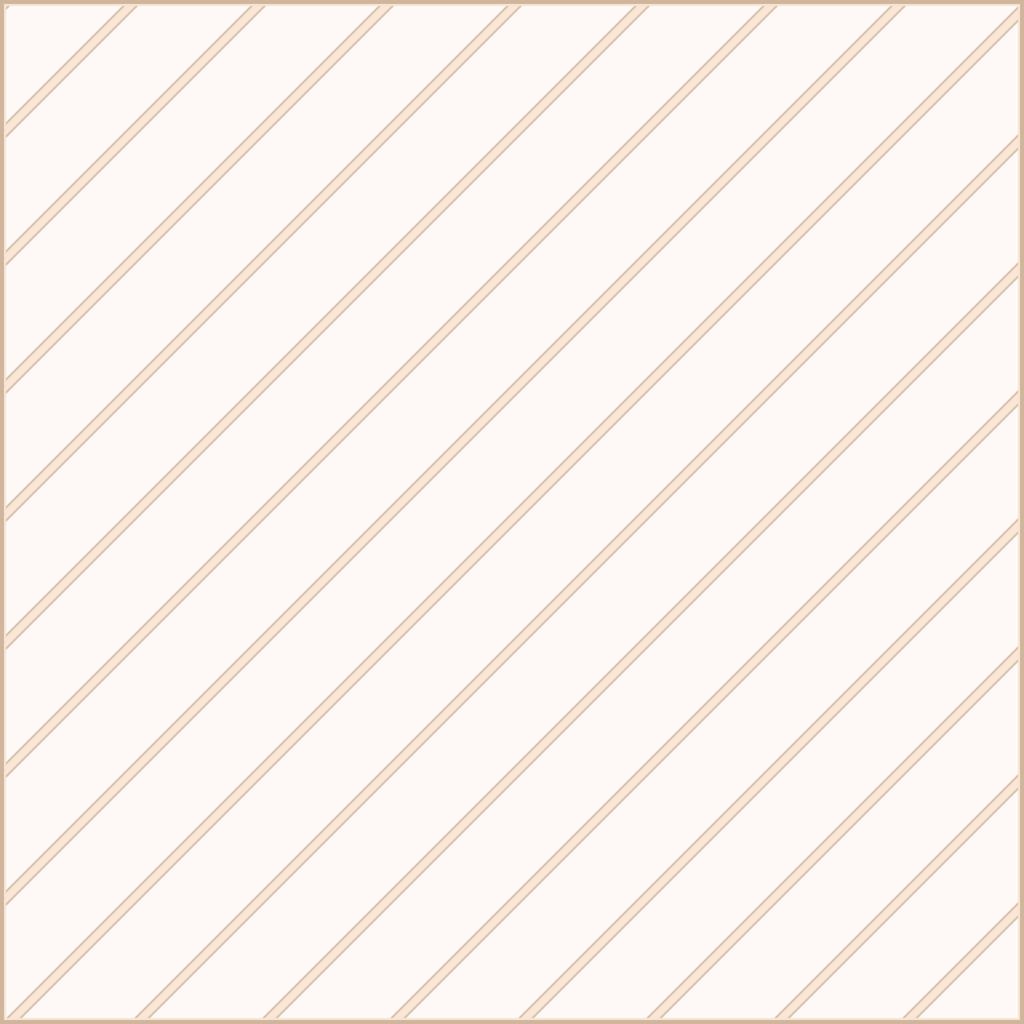
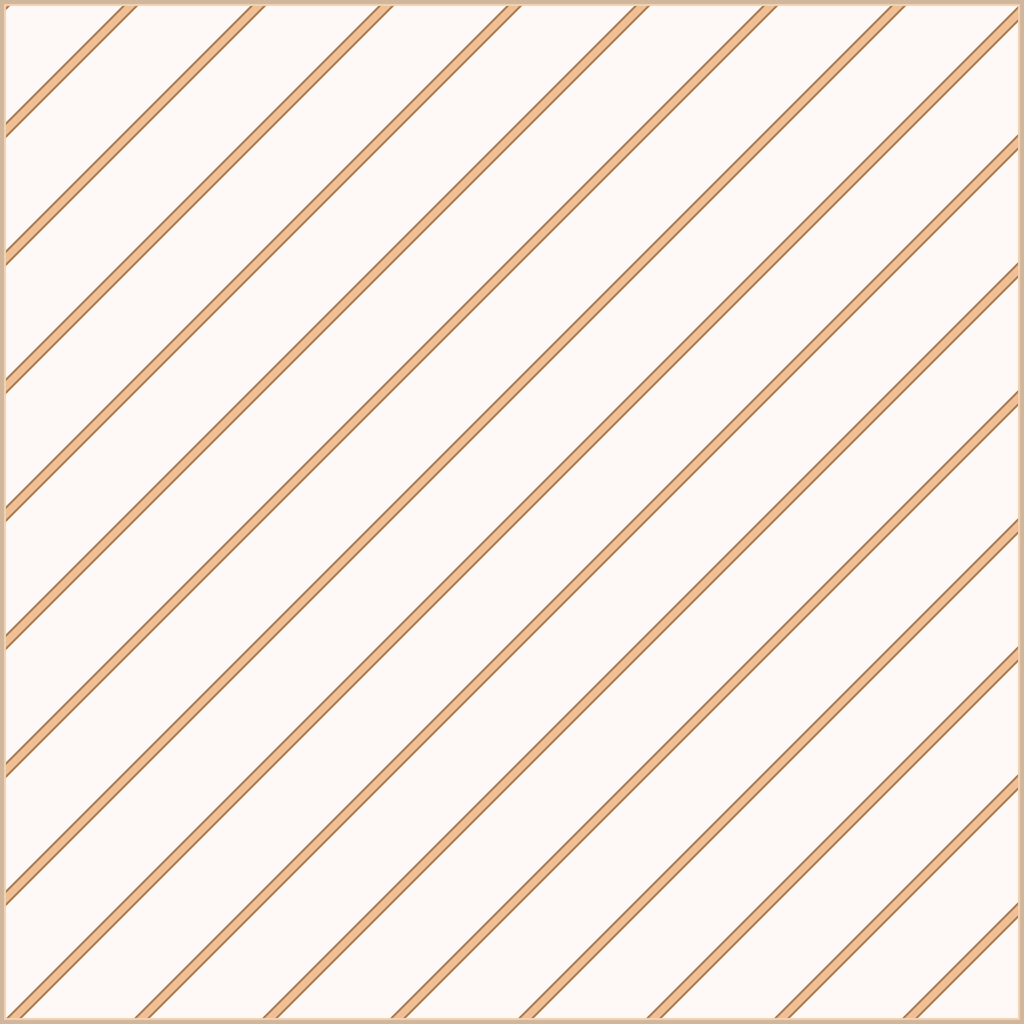
Trail overlay reads over terrain; stripe weight becomes per-state
Playtest report with a screenshot: the Trail overlay was hard to see. Its
stripes sat at alpha 49-86 of 255 - roughly 19% for the core - and orange
at 19% over dirt is invisible; halving the ribbon width for anti-aliasing
had made it fainter still.

alpha_scale was the wrong knob (it also dims the cell border and wash),
so each state now names its own alphas instead. Trail's stripes go to
190/125, about half strength: clearly visible on any terrain, still
see-through. Wilderness stays opaque, rampart keeps the base weight.

That gives the ladder a gradient in WEIGHT as well as color - the more a
rung forbids, the louder it argues, from opaque wilderness down to the
Deed's total absence of overlay. Both the world artwork and the map-view
chart variants inherit it, so the two views stay in one language.

diff --git a/tools/gen_overlays.py b/tools/gen_overlays.py
@@ -7,9 +7,12 @@ wilderness escalates the same artwork to fully opaque red stripes,
 unmistakable at any zoom):
 
     wilderness  red, stripes 100% opaque   (hard no)
-    trail       orange, calmer             (transit corridor)
+    trail       orange at ~half strength   (transit corridor)
     rampart     red, the original pattern  (one rung from Deed)
     deed        —                          (no blocker, fully clear)
+
+Stripe weight tracks how much the rung forbids, so the ladder reads as a
+gradient from loud to silent even before the colors register.
 
 Each sprite is 1024x1024 px; the data stage scales it to the configured cell
 size. The stripe period divides 1024, so patterns continue seamlessly across
@@ -71,21 +74,36 @@ def darken(c, f=0.66):
 
 # Per-state look. Rampart deliberately wears the WILDERNESS palette entry —
 # if that line looks wrong, read the module docstring: the red pattern
-# moved down a rung, it was not left behind by accident. Only wilderness
-# sets opaque_ribbon, which lifts the two stripe elements (edge + core) to
-# alpha 255 while border, inner line, and wash keep their usual strengths.
+# moved down a rung, it was not left behind by accident.
+#
+# The last field overrides individual alphas from A. Stripe strength is set
+# per state rather than scaled globally, because alpha_scale also dims the
+# cell border and wash — and the states want different stripe weights while
+# sharing everything else. The weights encode the ladder: the more a rung
+# forbids, the louder it argues.
+#
+#   wilderness  opaque       a hard no, unmissable at any zoom
+#   trail       ~half        visible over any terrain, still see-through
+#   rampart     base (~1/3)  the quietest marked rung, one step from Deed
+#   deed        —            no blocker, no overlay: clear ground is owned
+#
+# Trail's boost is a playtest call: at the base alphas its orange read as
+# ~19% over dirt and effectively vanished (screenshot), and halving the
+# ribbon width for anti-aliasing had made it fainter still.
 RED = COLORS["wilderness"]
 STATES = {
-    "wilderness": (RED, darken(RED), 1.00, True),
-    "trail": (COLORS["trail"], darken(COLORS["trail"]), 0.90, False),
-    "rampart": (RED, darken(RED), 1.00, False),
+    "wilderness": (RED, darken(RED), 1.00, {"ribbon_edge": 255, "ribbon_core": 255}),
+    "trail": (COLORS["trail"], darken(COLORS["trail"]), 0.90,
+              {"ribbon_edge": 190, "ribbon_core": 125, "inner": 90}),
+    "rampart": (RED, darken(RED), 1.00, {}),
 }
 
 
-def make(name, color, dark, alpha_scale, opaque_ribbon, suffix="", wash=True):
+def make(name, color, dark, alpha_scale, overrides, suffix="", wash=True):
     def a(key):
-        if opaque_ribbon and key in ("ribbon_edge", "ribbon_core"):
-            return 255
+        override = overrides.get(key)
+        if override is not None:
+            return override
         return max(1, round(A[key] * alpha_scale))
 
     # Compute at SIZE*SS, downscale with Lanczos — the anti-aliasing pass.
@@ -124,8 +142,8 @@ def make(name, color, dark, alpha_scale, opaque_ribbon, suffix="", wash=True):
 
 
 def main():
-    for name, (color, dark, scale, opaque_ribbon) in STATES.items():
-        make(name, color, dark, scale, opaque_ribbon)
+    for name, (color, dark, scale, overrides) in STATES.items():
+        make(name, color, dark, scale, overrides)
     # Chart variants for every blocker state (drawn by scripts/render.lua
     # in map view): identical stripes and cell border, but the
     # between-stripes wash is fully transparent — on the chart the wash
@@ -136,8 +154,8 @@ def main():
     # playtest: any area recoloring makes the OTHER side of the boundary
     # read as tinted by contrast).
     for name in ("wilderness", "trail", "rampart"):
-        color, dark, scale, opaque_ribbon = STATES[name]
-        make(name, color, dark, scale, opaque_ribbon, suffix="-chart", wash=False)
+        color, dark, scale, overrides = STATES[name]
+        make(name, color, dark, scale, overrides, suffix="-chart", wash=False)
 
 
 if __name__ == "__main__":
